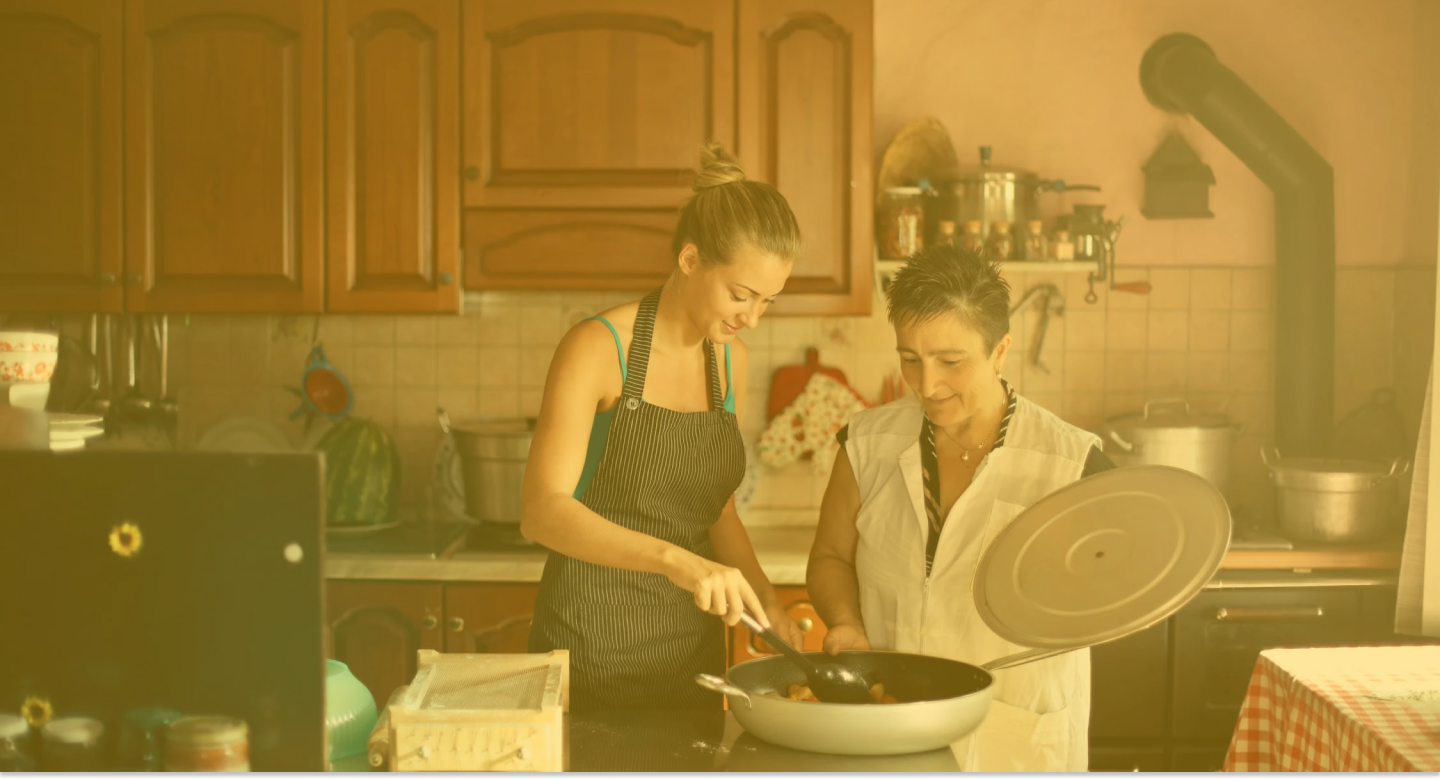
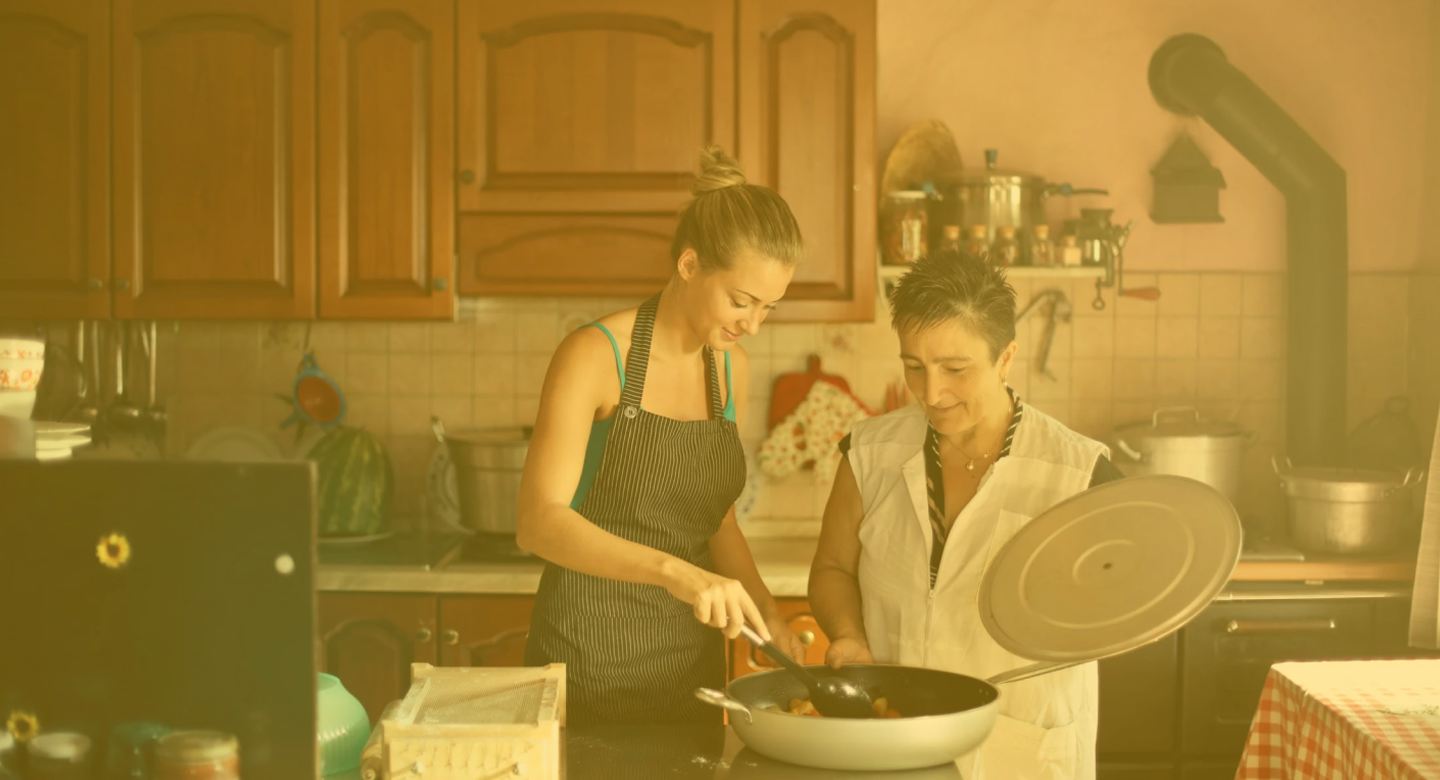
home 70% feita

diff --git a/style/global.css b/style/global.css
@@ -9,6 +9,7 @@ a {
 }
 
 .cabeçalho{
+    
     background-color: #FFC107;
     text-align: center;
     align-items: center;
@@ -36,11 +37,77 @@ a {
     color: aliceblue;
     margin: 12px 24px;
     font-weight: 700;
-
     
 }
 
 .menu-itens a  {
     color: aliceblue;
     
+}
+
+.banner-principal{
+    display: flex;
+    position: relative;
+    justify-content: flex-end;
+    align-items: center;
+}
+
+.img-banner-principal {
+    max-width: 100%;
+    max-height: 100%;
+}
+
+.texto-banner-principal{
+    position: absolute;
+    font-size: 70px;
+    color: aliceblue;
+    text-shadow: -3px 4px 8px black;
+}
+
+
+.banner-secundario{
+    display: flex;
+    position: relative; 
+    flex-direction: column;
+    justify-content: flex-start;
+    align-items: center;
+}
+
+.img-banner-secundario {
+    
+    max-width: 100%;
+    max-height: 100%;
+    box-shadow: 0px 3px 0px black;
+
+}
+
+.titulo-banner-secundario{
+    position: absolute;
+    bottom: 452px;
+    left: 63px;
+    font-size: 65px;
+    color: aliceblue;
+    
+}
+
+.texto-banner-secundario{
+    position: absolute;
+    bottom: 180px;
+    left: 63px;
+    font-size: 20px;
+    color: aliceblue;
+    
+}
+    
+
+.rodape{
+    background-color: #FFC107;
+    display: flex;
+    align-items: center;
+}
+
+.copyrigth{
+    font-size: 18px;
+    font-weight: 700;
+    color: aliceblue;
 }

diff --git a/index.html b/index.html
@@ -22,7 +22,30 @@
             </ul>
         </nav>
     </header>
-    <a href="#">teste</a>
     
+    <main>
+        <section class="home-principal">
+            <Div class="banner-principal">
+                <img class="img-banner-principal"src="img/image-1-amarela.png" alt="Banner mae cozinhando com a filha">
+                <p class="texto-banner-principal">Receitas<br>Com afeto</p>
+            </Div>
+
+            Receitas da semana
+            <img class="img-banner-secundario" src="img/image-2-amarela.png" alt="Duas mulhers cozinhando">
+            <div class="banner-secundario">
+                
+                <h1 class="titulo-banner-secundario">Comer é viver</h1>
+                <p class="texto-banner-secundario">Receitas preparadas com muito<br>carinho, para que você possa<br>sentir o prazer de preprarar uma<br>deliciosa refeição para sua familia.<br><br>
+                Todas as receitas terá a lista de<br>ingrediente indicando tudo que<br>você precisa, além disso, terá as<br>intruções de preparo. </p>
+            </div>
+        </section>
+    </main>
+
+    <footer>
+        <div class="rodape">
+            <img class="logo-rodape" src="img/logo.png" alt="Logo Omma-Receitas">
+            <div class="copyrigth">© 2022 omma - Todos os direitos são de vocês</div>
+        </div>
+    </footer>
 </body>
 </html>

diff --git a/receitas.html b/receitas.html
@@ -1,0 +1,37 @@
+<!DOCTYPE html>
+<html lang="pt-BR">
+<head>
+    <meta charset="UTF-8">
+    <meta http-equiv="X-UA-Compatible" content="IE=edge">
+    <meta name="viewport" content="width=device-width, initial-scale=1.0">
+    <link rel="stylesheet" href="style/reset.css">
+    <link rel="stylesheet" href="style/global.css">
+
+    <title>Receitas</title>
+</head>
+<body>
+    <header>
+        <div class="cabeçalho">
+            <img class="logo-cabeçalho" src="img/logo.png" alt="Logo Omma-Receitas">
+        </div>
+        <nav class="menu-topo">
+            <ul class="menu-lista">
+                <li class="menu-itens"><a href="index.html">Inicio</a></li>
+                <li class="menu-itens"><a href="receitas.html">Receitas</a></li>
+                <li class="menu-itens"><a href="contato.html">Contato</a></li>                
+            </ul>
+        </nav>
+    </header>
+    
+    <main>
+
+    </main>
+
+    <footer>
+        <div class="rodape">
+            <img class="logo-rodape" src="img/logo.png" alt="Logo Omma-Receitas">
+            <div class="copyrigth">© 2022 omma - Todos os direitos são de vocês</div>
+        </div>
+    </footer>
+</body>
+</html>

diff --git a/modeloreceitas.html b/modeloreceitas.html
@@ -7,7 +7,7 @@
     <link rel="stylesheet" href="style/reset.css">
     <link rel="stylesheet" href="style/global.css">
 
-    <title>Contato</title>
+    <title>Receita Moqueca</title>
 </head>
 <body>
     <header>

diff --git a/receita-moqueca.html b/receita-moqueca.html
@@ -7,7 +7,7 @@
     <link rel="stylesheet" href="style/reset.css">
     <link rel="stylesheet" href="style/global.css">
 
-    <title>Contato</title>
+    <title>Receita Moqueca</title>
 </head>
 <body>
     <header>
